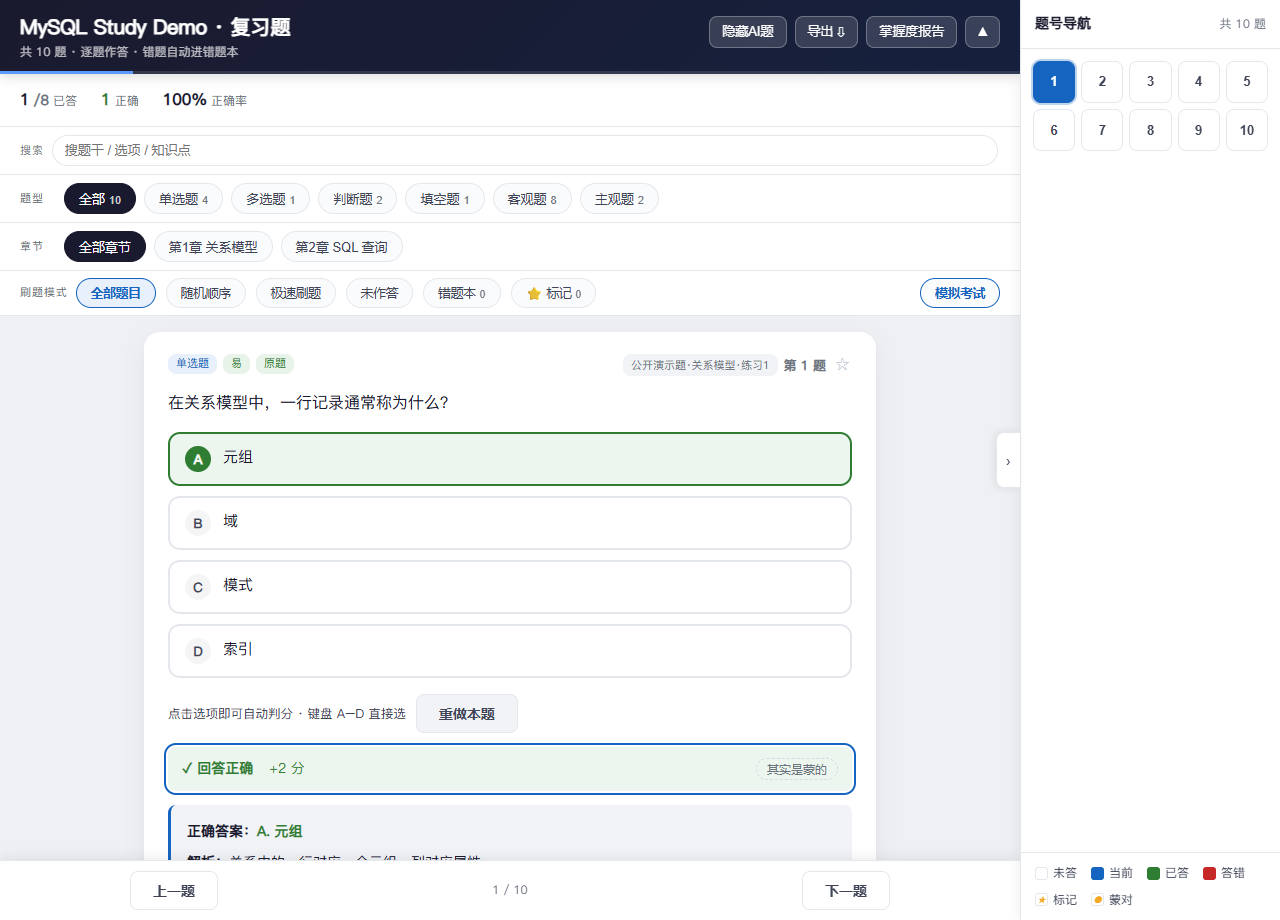
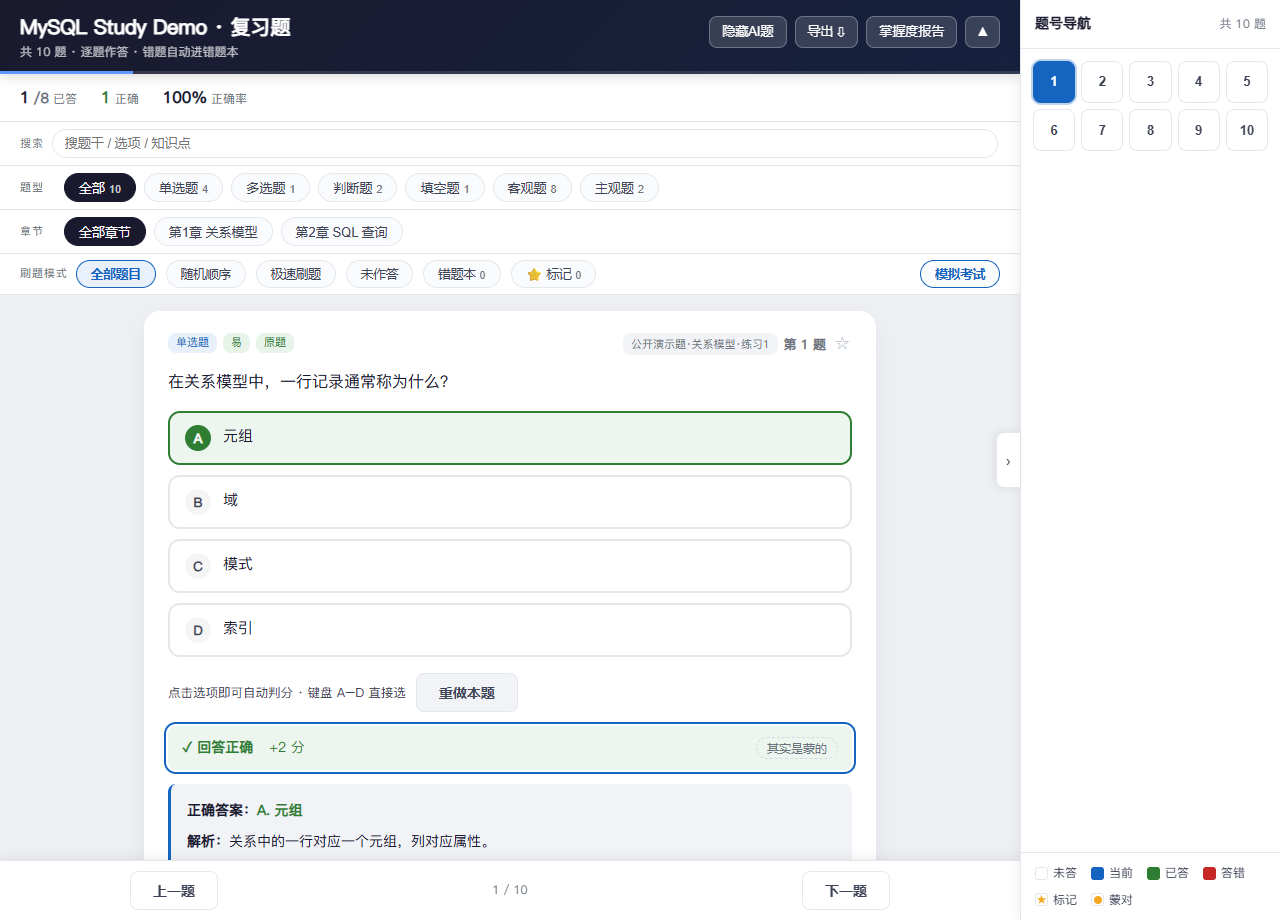
feat(quiz): 移动端顶栏与 PC 同构；题号导航星标/图例图形统一
- 移动端去掉「筛选」折叠层（移除 filterToggle/toggleFilters/filters-open）：搜索/题型/章节/刷题模式各行常显，与 PC 同构
- 窄屏收紧顶栏各行与药丸的上下内边距；搜索行与题型/章节/刷题模式标签左对齐（同一列 14px）
- 桌面收窄该区域上下内边距（统计条 9.5px，搜索/题型/章节 7px，刷题模式 6px；气泡各收 1px），其余不变
- 题号导航：星标移入格子内部右上角，改用 clip-path 画标准五角星；图例「标记/蒙对」不再依赖 ★/● 字形，改为标准五角星与正圆点
- 同步 README/SKILL 对窄屏顶栏的描述；刷新 showcase/preview/quiz 预览

diff --git a/scripts/render_quiz.py b/scripts/render_quiz.py
@@ -130,7 +130,7 @@ body.fast .quiz-top { position: sticky; top: 0; z-index: 120; background: #fff; 
 
 /* ── 统计条 ── */
 /* 一眼能读出「做完了多少」和「对了几道」，所以是 已答 x/y · 正确 · 正确率 三项 */
-.stat-bar { display: flex; gap: 24px; padding: 12px 20px; background: #fff; border-bottom: 1px solid var(--line); flex-wrap: wrap; }
+.stat-bar { display: flex; gap: 24px; padding: 9.5px 20px; background: #fff; border-bottom: 1px solid var(--line); flex-wrap: wrap; }
 .stat-item { display: flex; align-items: baseline; gap: 4px; font-size: 13px; }
 .stat-item .num { font-weight: 700; font-size: 16px; color: var(--ink); font-variant-numeric: tabular-nums; }
 .stat-item .num.total { font-size: 14px; font-weight: 600; color: var(--muted); }
@@ -146,11 +146,11 @@ body.fast .quiz-top { position: sticky; top: 0; z-index: 120; background: #fff; 
 /* ── 筛选行（题型／章节）：左侧分组标签 + 右侧可横滚的胶囊条 ── */
 .nav-row { position: relative; display: flex; align-items: center; background: #fff; border-bottom: 1px solid var(--line); }
 .nav-label { flex: none; padding: 0 8px 0 20px; font-size: 11px; letter-spacing: .08em; color: var(--muted); }
-.nav { background: #fff; padding: 8px 12px; overflow-x: auto; white-space: nowrap; display: flex; gap: 8px; scrollbar-width: none; -ms-overflow-style: none; flex: 1 1 auto; min-width: 0; }
+.nav { background: #fff; padding: 7px 12px; overflow-x: auto; white-space: nowrap; display: flex; gap: 8px; scrollbar-width: none; -ms-overflow-style: none; flex: 1 1 auto; min-width: 0; }
 /* Tab 行滚动条全隐藏（滚轮可横向滚动，不显示可见条） */
 .nav::-webkit-scrollbar { display: none; }
 .nav button {
-  flex-shrink: 0; padding: 6px 14px; border: 1px solid var(--line); border-radius: var(--r-pill);
+  flex-shrink: 0; padding: 5px 14px; border: 1px solid var(--line); border-radius: var(--r-pill);
   background: #fafbfc; font-size: 13px; color: var(--ink-2); cursor: pointer; white-space: nowrap;
   transition: background .14s var(--ease), border-color .14s var(--ease), color .14s var(--ease);
 }
@@ -169,30 +169,14 @@ body.fast .quiz-top { position: sticky; top: 0; z-index: 120; background: #fff; 
 /* ── 模式选择（与题型/章节同一套结构：左侧固定分组标签 + 右侧自己横滚的胶囊条；
       标签在滚动容器外，所以横滚时不会跟着「刷题模式」一起被滚走）── */
 .mode-bar { position: relative; display: flex; align-items: center; background: #fff; border-bottom: 1px solid var(--line); font-size: 13px; }
-.mode-nav { flex: 1 1 auto; min-width: 0; display: flex; align-items: center; gap: 10px; padding: 7px 20px 7px 0; overflow-x: auto; white-space: nowrap; scrollbar-width: none; -ms-overflow-style: none; }
+.mode-nav { flex: 1 1 auto; min-width: 0; display: flex; align-items: center; gap: 10px; padding: 6px 20px 6px 0; overflow-x: auto; white-space: nowrap; scrollbar-width: none; -ms-overflow-style: none; }
 .mode-nav::-webkit-scrollbar { display: none; }
-.mode-btn { padding: 6px 14px; border-radius: var(--r-pill); font-size: 12.5px; cursor: pointer; border: 1px solid var(--line); background: #fafbfc; color: var(--ink-2); transition: background .14s var(--ease), border-color .14s var(--ease), color .14s var(--ease); }
+.mode-btn { padding: 5px 14px; border-radius: var(--r-pill); font-size: 12.5px; cursor: pointer; border: 1px solid var(--line); background: #fafbfc; color: var(--ink-2); transition: background .14s var(--ease), border-color .14s var(--ease), color .14s var(--ease); }
 .mode-btn:hover { border-color: var(--accent2); color: var(--accent2); }
 .mode-btn.active { background: #e8f0fb; border-color: var(--accent2); color: var(--accent2); font-weight: 600; }
 .mode-btn .cnt { font-size: 11px; opacity: .75; margin-left: 4px; }
 .mode-bar .spacer { flex: 1; }
 .link-btn { background: none; border: none; color: var(--accent2); font-size: 13px; cursor: pointer; padding: 4px 6px; }
-
-/* ── 窄屏筛选折叠：默认只留统计条一行，点「筛选」就地展开题型/章节/模式 ── */
-.filter-toggle {
-  display: none; width: 100%; align-items: center; gap: 8px;
-  background: #fff; border: none; border-bottom: 1px solid var(--line);
-  padding: 10px 14px; font-size: 13px; color: var(--ink-2); cursor: pointer; text-align: left;
-}
-.filter-toggle .ft-main { font-weight: 600; color: var(--ink); flex: none; }
-.filter-toggle .ft-sum { flex: 1 1 auto; min-width: 0; font-size: 12px; color: var(--muted); overflow: hidden; text-overflow: ellipsis; white-space: nowrap; }
-.filter-toggle .ft-caret { flex: none; font-size: 11px; color: var(--muted); transition: transform .2s var(--ease); }
-body.filters-open .filter-toggle .ft-caret { transform: rotate(180deg); }
-@media (max-width: 999px) {
-  .filter-toggle { display: flex; }
-  .filter-box { display: none; }
-  body.filters-open .filter-box { display: block; }
-}
 
 /* ── 主内容 ── */
 /* 760px ≈ 每行 38–42 个汉字，读长题干不费眼；再宽视线就要来回扫 */
@@ -488,15 +472,25 @@ body.menu-open .menu { display: block; }
 .star-btn:hover { color: #f5a623; transform: scale(1.15); }
 .star-btn.on { color: #f5a623; }
 .qnav-cell { position: relative; }
-.qnav-cell.is-star::after { content: '★'; position: absolute; top: -4px; right: -1px; font-size: 9px; line-height: 1; color: #f5a623; }
+.qnav-cell.is-star::after {
+  content: ''; position: absolute; top: 2px; right: 2px; width: 9px; height: 9px; background: #f5a623;
+  clip-path: polygon(50% 0%, 61% 35%, 98% 35%, 68% 57%, 79% 91%, 50% 70%, 21% 91%, 32% 57%, 2% 35%, 39% 35%);
+}
 .qnav-cell.is-guess::before { content: ''; position: absolute; top: 3px; left: 3px; width: 5px; height: 5px; border-radius: 50%; background: #f5a623; }
-.qnav-legend i.lg-star, .qnav-legend i.lg-guess { display: inline-flex; align-items: center; justify-content: center; font-size: 9px; color: #f5a623; }
+/* 图例里的「标记/蒙对」用同一套纯 CSS 图形：标准五角星 + 正圆点（不再依赖 ★/● 字形，避免走形/椭圆） */
+.qnav-legend i.lg-star, .qnav-legend i.lg-guess { position: relative; }
+.qnav-legend i.lg-star::after, .qnav-legend i.lg-guess::after { content: ''; position: absolute; inset: 0; margin: auto; background: #f5a623; }
+.qnav-legend i.lg-star::after {
+  width: 10px; height: 10px;
+  clip-path: polygon(50% 0%, 61% 35%, 98% 35%, 68% 57%, 79% 91%, 50% 70%, 21% 91%, 32% 57%, 2% 35%, 39% 35%);
+}
+.qnav-legend i.lg-guess::after { width: 8px; height: 8px; border-radius: 50%; }
 
 /* 题内搜索：窄屏也收在「筛选」抽屉里，摘要里会带上关键词 */
-.search-row { gap: 8px; padding: 8px 14px 8px 20px; }
+.search-row { gap: 8px; padding: 7px 14px 7px 20px; }
 .search-row .nav-label { padding: 0; }
 .search-input {
-  flex: 1 1 auto; min-width: 0; padding: 7px 12px; font-size: 13px; color: var(--ink);
+  flex: 1 1 auto; min-width: 0; padding: 6px 12px; font-size: 13px; color: var(--ink);
   border: 1px solid var(--line); border-radius: var(--r-pill); background: #fff;
   transition: border-color .14s var(--ease), box-shadow .14s var(--ease);
 }
@@ -637,7 +631,7 @@ body.exam-on .mode-btn.exam-entry { display: none; }
 .toggle-top-btn:focus-visible, .nav button:focus-visible, .mode-btn:focus-visible,
 .fill-input:focus-visible, .subj-input:focus-visible, .search-input:focus-visible, .exam-min:focus-visible,
 .star-btn:focus-visible, .guess-btn:focus-visible, .report-close:focus-visible,
-.filter-toggle:focus-visible, .qnav-toggle:focus-visible, .backtop:focus-visible,
+.qnav-toggle:focus-visible, .backtop:focus-visible,
 .menu button:focus-visible, .rep-cell:focus-visible {
   outline: 2px solid var(--focus);
   outline-offset: -2px;
@@ -653,6 +647,24 @@ body.exam-on .mode-btn.exam-entry { display: none; }
     animation-duration: .01ms !important; animation-iteration-count: 1 !important;
     transition-duration: .01ms !important; scroll-behavior: auto !important;
   }
+}
+
+/* ── 窄屏：顶栏与 PC 同构（筛选各行常显）后纵向更吃紧，且手机上药丸按钮上下偏胖；
+      把各行内边距与药丸的上下内边距各收紧一档（横向内边距与字号不动，结构不变） ── */
+@media (max-width: 999px) {
+  .header { padding: 9px 16px 8px; }
+  .header-inner { gap: 5px; }
+  .top-btn, .toggle-top-btn { padding: 4px 12px; margin-top: 0; }
+  .stat-bar { padding: 5px 14px; }
+  /* 搜索行与题型/章节/刷题模式左对齐（同一列），行高与气泡高也收到同档 */
+  .nav-label { padding-left: 14px; padding-right: 6px; }
+  .search-row { padding: 6px 14px; }
+  .search-input { padding: 4px 12px; }
+  .nav-row .nav { padding: 6px 12px; }
+  .nav button { padding: 4px 14px; }
+  .mode-nav { padding: 6px 20px 6px 0; }
+  .mode-btn { padding: 4px 14px; }
+  .main { padding-top: 8px; }
 }
 
 /* ── 打印：全部题目 + 答案展开 ── */
@@ -891,10 +903,6 @@ def render(quiz: dict) -> str:
         '<div class="stat-item green zero"><span class="num" id="statRight">0</span><span class="lbl">正确</span></div>'
         '<div class="stat-item rate zero"><span class="num" id="statRate">—</span><span class="lbl">正确率</span></div>'
         '</div>',
-        '<button class="filter-toggle" id="filterToggle" type="button" onclick="toggleFilters()"'
-        ' aria-expanded="false" aria-controls="filterBox">'
-        '<span class="ft-main">筛选</span><span class="ft-sum" id="filterSummaryInline"></span>'
-        '<span class="ft-caret">▾</span></button>',
         '<div class="filter-box" id="filterBox">',
         '<div class="nav-row search-row"><span class="nav-label">搜索</span>'
         '<input class="search-input" id="qSearch" type="search" autocomplete="off" '
@@ -942,8 +950,8 @@ def render(quiz: dict) -> str:
         '<span><i class="lg-current"></i>当前</span>'
         '<span><i class="lg-ok"></i>已答</span>'
         '<span><i class="lg-wrong"></i>答错</span>'
-        '<span><i class="lg-star">★</i>标记</span>'
-        '<span><i class="lg-guess">●</i>蒙对</span>'
+        '<span><i class="lg-star"></i>标记</span>'
+        '<span><i class="lg-guess"></i>蒙对</span>'
         '</div>'
         '</aside>'
         '<div class="qnav-overlay" id="qnavOverlay" onclick="toggleQnav(false)"></div>'
@@ -1365,14 +1373,6 @@ function updateStats(){
 }
 
 // ── 顶部筛选摘要：顶栏折叠后仍知道「现在筛的是什么」 ──
-// 窄屏：筛选收进折叠抽屉，默认只留统计条一行
-function toggleFilters(force){
-  var open = (typeof force === 'boolean') ? force : !document.body.classList.contains('filters-open');
-  document.body.classList.toggle('filters-open', open);
-  var btn = document.getElementById('filterToggle');
-  if(btn) btn.setAttribute('aria-expanded', open ? 'true' : 'false');
-  if(open) updateNavOverflow();
-}
 function updateFilterSummary(){
   var el = document.getElementById('filterSummary');
   if(!el) return;
@@ -1391,8 +1391,6 @@ function updateFilterSummary(){
   parts.push(TYPE_LABEL[state.type] || '全部题型', chap, MODE_LABEL[state.mode] || '全部题目');
   if(aiHide) parts.push('已隐藏AI题');
   el.textContent = parts.join(' · ');
-  var inline = document.getElementById('filterSummaryInline');
-  if(inline) inline.textContent = parts.join(' · ');
   syncAllRoving();
 }
 // 未作答提交：就地提示，不打断

diff --git a/SKILL.md b/SKILL.md
@@ -201,7 +201,7 @@ python <skill目录>/scripts/render_graph.py <资料目录>
 | 脚本 | 产物 | 内容 |
 |---|---|---|
 | render_outline.py | `<课程名>-知识清单.html` | Claude 式杂志感双栏：暖奶油纸底 + 单一珊瑚 accent，衬线大标题（Georgia）+ 无衬线正文；左 sticky sidebar（两级目录、滚动同步高亮 **且左栏自动滚到激活项**、可拖拽 180–560px、可折叠成 60px 章节色点导航）+ 右正文；正文宽度随右区可用宽度自适应（Ctrl+滚轮缩放不跳偏、不横向溢出）；章节标题 = 衬线编号 + 细分隔线（零大色块）；知识点挂四色**色点胶囊标签**（必考/重点/高频/了解，无 emoji）；**content 里的 **术语** 渲染为墨色加粗**；importance=must 知识点 = 珊瑚左细线 + 浅珊瑚底 + 左上角「必考考点」微标；顶部 sticky 阅读进度条 + 回顶按钮 + stagger reveal 动效；章末折叠自测（selftests）；右栏阅读区 GPT 式排版：正文 17px/行高 2.0、墨色正文，content 里的「；」并列要点自动拆成带圆点的逐条列表、段间明显留白，行内 code 用浅灰底等宽、代码块加大内边距 |
-| render_quiz.py | `<课程名>-复习题.html` | 刷题 App 风：深色 header（右上角 ▲/▼ 可折叠顶部栏）+ 统计条 + 题型 tab（做题进度全页只留 header 底部那一条常驻细线，不再另设第二条进度条）（固定 单选/多选/判断/填空/客观题/主观题，客观在前主观在后，0 道也占位；与章节行同用「题型/章节」分组标签，横向可滚且能滚时右缘渐隐提示）+ **章节 tab（显示真实章节名；questions.json 缺 label 时按 id 从 knowledge_skeleton 补齐，不再显示 ch1/ch2；章节名多放不下时鼠标滚轮可横向滚动、滚动条保持隐藏）** + 刷题模式（全部题目/随机顺序/极速刷题/未作答/错题本；**极速刷题**一次把当前筛选题目整页列出、下滑就地作答、顶栏常驻，不必点“下一题”）；刷题模式行与题型/章节同构（左侧固定标签 + 右侧自己横滚的按钮条，横滚时「刷题模式」不会被滚走，窄屏不再整行横滚、右缘渐隐随滚动位置收起）；单题视图逐题判对错、高亮答案、显示解析与易错点（单选/判断点选项即自动判分；**填空题空位兼容 `___` 与中文 `【】`，空位不足或题干没写空位时自动在题干下方补足输入框，使输入框数不少于答案数**）；做错的题自动进「错题本」可重刷、顶栏「导出错题」按钮可一键下载仅含错题的离线 HTML（受去AI影响，无错题时禁用；导出与打印均不含题号导航与重做按钮）；顶部深色栏右侧提供「隐藏AI题/恢复AI题/无AI题」三态切换（一键隐藏/恢复 AI 生成题）与「掌握度报告」入口；统计条为「已答 x/总数 · 正确 · 正确率」（点「已答」即打开掌握度报告；正确率未作答时显示 —，0 值转灰）；顶栏底部常驻一条完成度细线，顶栏折叠后标题下出现「题型 · 章节 · 模式」筛选摘要胶囊，滚动或收起后仍知道当前筛的是什么；主观题一键看参考答案、提交后显示蓝底「已记录，可对照下方参考答案」确认条（不判对错）；多选题作答区实时显示「已选 n 项」；未作答模式下答完一题即从列表移出（含主观题），答完最后一题显示「题目已全部作答」；答题后出现「重做本题」可撤销该题记录重新作答（错题本/未作答模式改对或撤销后列表自动重建）；每张卡答完结果条自动进入视野（不重复打扰）；「掌握度报告」按知识点聚合得分率标薄弱、以弹窗形式展示；**右侧可折叠「题号导航」答案卡**（列出去AI×题型×章节 命中的题并连续重编号 1..N，卡片「第 N 题」同步重排；四色状态：未答/当前/已答/答错 + 底部图例；点号跳到该题——错题本/未作答等模式不含该题时自动切回「全部题目」再跳，极速刷题模式滚动定位并高亮；PC 贴右常驻可折叠、展开时页面内容让位不遮挡，移动端右侧滑出抽屉 + 遮罩、点号跳转后自动收起；开合状态记入 localStorage）；题号格带 aria-label；选项支持 roving tabindex（方向键组内移焦点、Enter/Space 等同点击，aria-checked 同步）与字母/数字快捷键（A–H、1–9 直接选答，判断题另支持 T/F；单选/判断点完即判分，多选可连按切换）、填空输入框回车即提交；未作答就点提交时在题卡内就地提示（不再 alert 打断），单题视图不再在卡片与底部栏重复两个「提交答案」；空筛选显示标题 + 「清空筛选」出口；页面隐藏滚动条但保留滚动，并在滚动超过一屏后于右下角浮出「回到顶部」按钮（避开底部栏；PC 题号导航展开时自动让位，窄屏位于抽屉遮罩之下）；**题内搜索**（题干/选项/答案/知识点，与筛选联动）；**标记⭐**（卡片星标 + 「⭐ 标记」模式 + 面板角标）；**蒙对标记**（答对后一键标记，面板橙点、报告单列计数）；**模拟考试模式**（题量 + **自定义时长 1–180 分钟**（档位按钮只做快捷填充，输入框才是真源）→ 顶栏倒计时条 + 未答计数（绿色进度条 = 时间流逝，最后 1 分钟转红）；**点开考试设置即自动收起右侧题号导航**，**开考后统计条与筛选整区也自动收起**（只留计时条与卷面，交卷/退出按考试前的开合状态还原）；已有作答时先弹确认，可选「清空并开始」（清空作答/错题/得分/蒙对标记）或取消；考试中不判分不揭晓、面板只标「已作答」，交卷统一判分并给逐题结果与正确率，可随时退出）；顶栏「导出」菜单（窄屏打开时按视口夹住在内，不被左缘裁切）：错题 HTML / **打印双卷**（含答案卷、空白练习卷，按当前筛选、零装饰，打印走隐藏 iframe 的独立文档）/ **导出 Word .docx**（手写最小 OOXML + store 模式 zip，浏览器内零依赖离线生成）；掌握度报告加**章节完成度**（含主观题，提交即算完成）与知识点所在章节列；窄屏默认只留统计条一行，题型/章节/模式/搜索收进「筛选」折叠条；题号格用 roving tabindex（整片只占一个 Tab 位，格子内方向键 = 换题）；题型/章节/模式三排刻意不接管方向键（方向键始终只负责切题，Tab 才管焦点），焦点在按钮上时字母/数字键不再误选答；Ctrl+P 打印时全部题目+答案+解析展开、导出错题与打印均不含面板 |
+| render_quiz.py | `<课程名>-复习题.html` | 刷题 App 风：深色 header（右上角 ▲/▼ 可折叠顶部栏）+ 统计条 + 题型 tab（做题进度全页只留 header 底部那一条常驻细线，不再另设第二条进度条）（固定 单选/多选/判断/填空/客观题/主观题，客观在前主观在后，0 道也占位；与章节行同用「题型/章节」分组标签，横向可滚且能滚时右缘渐隐提示）+ **章节 tab（显示真实章节名；questions.json 缺 label 时按 id 从 knowledge_skeleton 补齐，不再显示 ch1/ch2；章节名多放不下时鼠标滚轮可横向滚动、滚动条保持隐藏）** + 刷题模式（全部题目/随机顺序/极速刷题/未作答/错题本；**极速刷题**一次把当前筛选题目整页列出、下滑就地作答、顶栏常驻，不必点“下一题”）；刷题模式行与题型/章节同构（左侧固定标签 + 右侧自己横滚的按钮条，横滚时「刷题模式」不会被滚走，窄屏不再整行横滚、右缘渐隐随滚动位置收起）；单题视图逐题判对错、高亮答案、显示解析与易错点（单选/判断点选项即自动判分；**填空题空位兼容 `___` 与中文 `【】`，空位不足或题干没写空位时自动在题干下方补足输入框，使输入框数不少于答案数**）；做错的题自动进「错题本」可重刷、顶栏「导出错题」按钮可一键下载仅含错题的离线 HTML（受去AI影响，无错题时禁用；导出与打印均不含题号导航与重做按钮）；顶部深色栏右侧提供「隐藏AI题/恢复AI题/无AI题」三态切换（一键隐藏/恢复 AI 生成题）与「掌握度报告」入口；统计条为「已答 x/总数 · 正确 · 正确率」（点「已答」即打开掌握度报告；正确率未作答时显示 —，0 值转灰）；顶栏底部常驻一条完成度细线，顶栏折叠后标题下出现「题型 · 章节 · 模式」筛选摘要胶囊，滚动或收起后仍知道当前筛的是什么；主观题一键看参考答案、提交后显示蓝底「已记录，可对照下方参考答案」确认条（不判对错）；多选题作答区实时显示「已选 n 项」；未作答模式下答完一题即从列表移出（含主观题），答完最后一题显示「题目已全部作答」；答题后出现「重做本题」可撤销该题记录重新作答（错题本/未作答模式改对或撤销后列表自动重建）；每张卡答完结果条自动进入视野（不重复打扰）；「掌握度报告」按知识点聚合得分率标薄弱、以弹窗形式展示；**右侧可折叠「题号导航」答案卡**（列出去AI×题型×章节 命中的题并连续重编号 1..N，卡片「第 N 题」同步重排；四色状态：未答/当前/已答/答错 + 底部图例；点号跳到该题——错题本/未作答等模式不含该题时自动切回「全部题目」再跳，极速刷题模式滚动定位并高亮；PC 贴右常驻可折叠、展开时页面内容让位不遮挡，移动端右侧滑出抽屉 + 遮罩、点号跳转后自动收起；开合状态记入 localStorage）；题号格带 aria-label；选项支持 roving tabindex（方向键组内移焦点、Enter/Space 等同点击，aria-checked 同步）与字母/数字快捷键（A–H、1–9 直接选答，判断题另支持 T/F；单选/判断点完即判分，多选可连按切换）、填空输入框回车即提交；未作答就点提交时在题卡内就地提示（不再 alert 打断），单题视图不再在卡片与底部栏重复两个「提交答案」；空筛选显示标题 + 「清空筛选」出口；页面隐藏滚动条但保留滚动，并在滚动超过一屏后于右下角浮出「回到顶部」按钮（避开底部栏；PC 题号导航展开时自动让位，窄屏位于抽屉遮罩之下）；**题内搜索**（题干/选项/答案/知识点，与筛选联动）；**标记⭐**（卡片星标 + 「⭐ 标记」模式 + 面板角标）；**蒙对标记**（答对后一键标记，面板橙点、报告单列计数）；**模拟考试模式**（题量 + **自定义时长 1–180 分钟**（档位按钮只做快捷填充，输入框才是真源）→ 顶栏倒计时条 + 未答计数（绿色进度条 = 时间流逝，最后 1 分钟转红）；**点开考试设置即自动收起右侧题号导航**，**开考后统计条与筛选整区也自动收起**（只留计时条与卷面，交卷/退出按考试前的开合状态还原）；已有作答时先弹确认，可选「清空并开始」（清空作答/错题/得分/蒙对标记）或取消；考试中不判分不揭晓、面板只标「已作答」，交卷统一判分并给逐题结果与正确率，可随时退出）；顶栏「导出」菜单（窄屏打开时按视口夹住在内，不被左缘裁切）：错题 HTML / **打印双卷**（含答案卷、空白练习卷，按当前筛选、零装饰，打印走隐藏 iframe 的独立文档）/ **导出 Word .docx**（手写最小 OOXML + store 模式 zip，浏览器内零依赖离线生成）；掌握度报告加**章节完成度**（含主观题，提交即算完成）与知识点所在章节列；顶栏在宽窄屏一致（不做筛选折叠，搜索/题型/章节/刷题模式各行常显；窄屏改由顶栏 ▲ 一键收起整块）；题号格用 roving tabindex（整片只占一个 Tab 位，格子内方向键 = 换题）；题型/章节/模式三排刻意不接管方向键（方向键始终只负责切题，Tab 才管焦点），焦点在按钮上时字母/数字键不再误选答；Ctrl+P 打印时全部题目+答案+解析展开、导出错题与打印均不含面板 |
 | render_graph.py | `<课程名>-知识图谱.html` | Claude 式杂志感（与知识清单同源配色/字体），**两级放射 · 总览 + 点章展开**：暖奶油纸底 + 珊瑚 accent，居中 hero；图谱放进固定高度的圆角舞台（内容不把页面撑长），**总览 = 中央「课程」胶囊 + 一圈章节节点**（编号 + 标题，辐线连中心，一屏扫结构；**编号与标题首行共用基线、画在胶囊内**，常驻可见，聚焦某章时随该章一起变淡）；**点某章 → 该章知识点朝外展开成扇形**（章→知识点浅线 + 章内 `deps` 虚线依赖，`is_hub` 加 ★；画布自动放大聚焦到这一章，其余章节变淡），点空白/课程/再点同章回总览；知识点胶囊四色重要度（必考珊瑚/重点金棕/高频蓝灰/了解灰绿），悬停 tooltip 显示内容并去掉 markdown 加粗；拖拽平移、滚轮缩放、双指 pinch、按 0 回总览；知识点布局每章做去重叠排版，间距宽松；图谱区右上角有「全屏 / 退出全屏」按钮，方便整屏看图谱 |
 
 三份 HTML 均单文件、无外部 CDN 依赖（离线可开），可 Ctrl+P 打印为 PDF。

diff --git a/README.md b/README.md
@@ -8,7 +8,7 @@
 | 产物 | 你拿它做什么 | 预览 |
 |---|---|---|
 | **知识清单** | 按章背诵：杂志式章卡分组；知识点四色重要度；content 自动把比较/并列渲染成**对比表、流程、分类**（少超长句）；章末折叠自测 | [![知识清单预览](showcase/preview/outline-thumb.png)](showcase/preview/outline.png) |
-| **复习题** | 逐题作答、自动批改、逐题解析；题型/章节/刷题模式三行同一套结构（左侧固定分组标签 + 右侧自己横滚的胶囊条 + 右缘渐隐，横滚时标签不会跟着滚走）；折叠顶栏后显示当前筛选摘要胶囊、顶栏底部常驻完成度细线；**极速刷题**整页下滑作答、顶栏**隐藏AI题**（隐藏/恢复 AI 生成题）、**错题本 + 顶栏一键导出错题 HTML**（无错题时禁用）、答完可**重做本题**（主观题提交后有「已记录」确认条，多选题实时显示「已选 n 项」，未作答模式答完自动移出列表）、键盘 ←/→/Enter 切题，选项支持方向键 + Enter/Space 或字母/数字快捷键（A–H / 1–9，判断题 T/F，含 aria 无障碍）；未作答就提交改为就地提示不弹窗；页面隐藏滚动条但右下角有「回到顶部」浮动按钮；**统计条可点开掌握度报告**（已答 x/总数 · 正确 · 正确率）；蓝=当前 / 绿=对 / 红=错 / 灰=未答的配色语义统一；**右侧题号导航**（答案卡式网格，随去AI/题型/章节筛选连续重编号、点号跳题，PC 贴右可折叠 / 移动端右滑抽屉且点号跳转后自动收起；题号格键盘可达：整片格子只占一个 Tab 位，格子内方向键 = 上一题/下一题）；**题目搜索**（题干/选项/答案/知识点，与筛选、摘要联动）；**标记题 ⭐**（星标重点题，面板加角标 + 「⭐ 标记」模式集中复习）；**蒙对标记**（答对后一键记为「蒙对的」，面板加橙点、报告单列计数）；**模拟考试**（题量 + **自定义时长 1–180 分钟**（档位只是快捷填充）、点开即自动收起题号导航、已有作答时先确认「清空并开始」、开考后统计与筛选整区自动收起（只留计时条与卷面，交卷/退出后按考试前的开合状态还原）、顶栏倒计时 + 未答计数，绿色进度条走的是**时间流逝**而不是答题完成度、考试中不揭晓对错、交卷统一判分并给出逐题结果）；顶栏**导出菜单**：错题 HTML、**打印双卷**（含答案卷 / 空白练习卷，按当前筛选、零装饰）与**导出 Word .docx**（浏览器内零依赖离线生成，只要题目和答案，像老师发的卷子）；掌握度报告新增**按章节完成度**；窄屏默认只留统计条一行，题型/章节/模式/搜索收进「筛选」折叠条 | [![复习题预览](showcase/preview/quiz-thumb.png)](showcase/preview/quiz.png) |
+| **复习题** | 逐题作答、自动批改、逐题解析；题型/章节/刷题模式三行同一套结构（左侧固定分组标签 + 右侧自己横滚的胶囊条 + 右缘渐隐，横滚时标签不会跟着滚走）；折叠顶栏后显示当前筛选摘要胶囊、顶栏底部常驻完成度细线；**极速刷题**整页下滑作答、顶栏**隐藏AI题**（隐藏/恢复 AI 生成题）、**错题本 + 顶栏一键导出错题 HTML**（无错题时禁用）、答完可**重做本题**（主观题提交后有「已记录」确认条，多选题实时显示「已选 n 项」，未作答模式答完自动移出列表）、键盘 ←/→/Enter 切题，选项支持方向键 + Enter/Space 或字母/数字快捷键（A–H / 1–9，判断题 T/F，含 aria 无障碍）；未作答就提交改为就地提示不弹窗；页面隐藏滚动条但右下角有「回到顶部」浮动按钮；**统计条可点开掌握度报告**（已答 x/总数 · 正确 · 正确率）；蓝=当前 / 绿=对 / 红=错 / 灰=未答的配色语义统一；**右侧题号导航**（答案卡式网格，随去AI/题型/章节筛选连续重编号、点号跳题，PC 贴右可折叠 / 移动端右滑抽屉且点号跳转后自动收起；题号格键盘可达：整片格子只占一个 Tab 位，格子内方向键 = 上一题/下一题）；**题目搜索**（题干/选项/答案/知识点，与筛选、摘要联动）；**标记题 ⭐**（星标重点题，面板加角标 + 「⭐ 标记」模式集中复习）；**蒙对标记**（答对后一键记为「蒙对的」，面板加橙点、报告单列计数）；**模拟考试**（题量 + **自定义时长 1–180 分钟**（档位只是快捷填充）、点开即自动收起题号导航、已有作答时先确认「清空并开始」、开考后统计与筛选整区自动收起（只留计时条与卷面，交卷/退出后按考试前的开合状态还原）、顶栏倒计时 + 未答计数，绿色进度条走的是**时间流逝**而不是答题完成度、考试中不揭晓对错、交卷统一判分并给出逐题结果）；顶栏**导出菜单**：错题 HTML、**打印双卷**（含答案卷 / 空白练习卷，按当前筛选、零装饰）与**导出 Word .docx**（浏览器内零依赖离线生成，只要题目和答案，像老师发的卷子）；掌握度报告新增**按章节完成度**；顶栏在宽窄屏一致（不做筛选折叠，搜索/题型/章节/刷题模式各行常显；窄屏改由顶栏 ▲ 一键收起整块） | [![复习题预览](showcase/preview/quiz-thumb.png)](showcase/preview/quiz.png) |
 | **复习题 · 错题本导出** | 由复习题一键生成的独立离线 HTML：仅含错题、答案展开、可打印（受"去AI"影响） | [![错题导出预览](showcase/preview/wrong-thumb.png)](showcase/preview/wrong.png) |
 | **知识图谱** | **放射总览**（课程→章节一圈），点某章向外展开它的知识点、点气泡看结构化详情；可全屏 | [![知识图谱预览](showcase/preview/graph-thumb.png)](showcase/preview/graph.png) |
 
